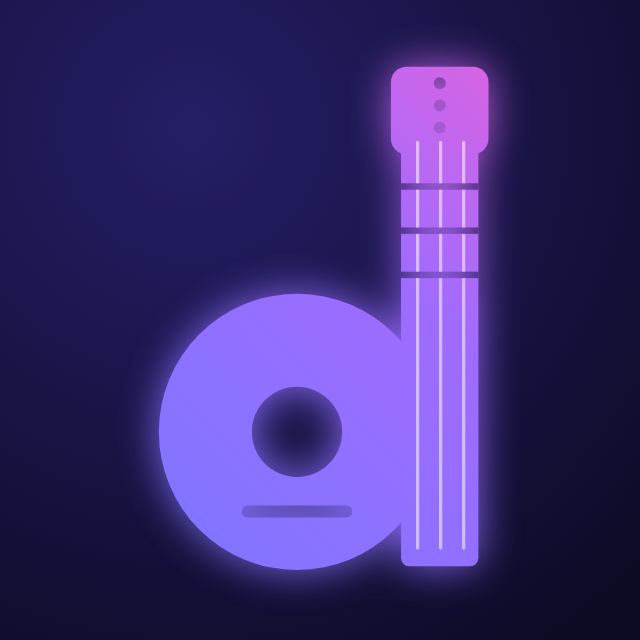
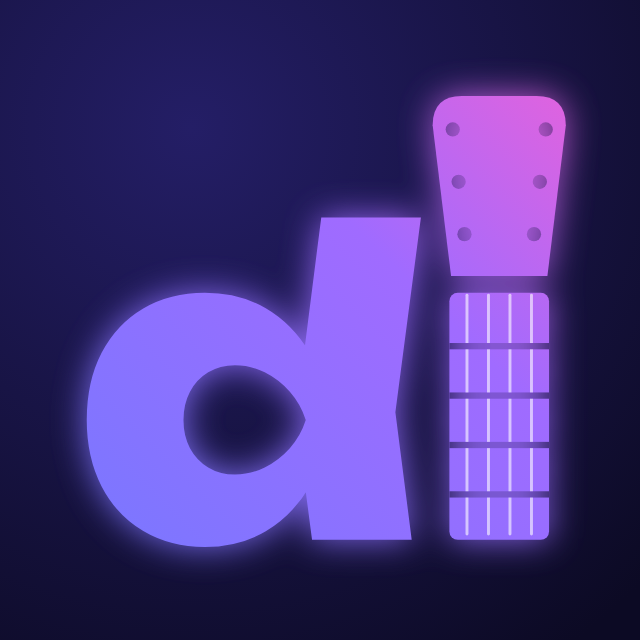
Логотип: гриф гитары на букве i (голова грифа вместо точки)
Claude-Session: https://claude.ai/code/session_01UK4vD2FhiZCAT2hytWhD3y

diff --git a/brand/make-logo.py b/brand/make-logo.py
@@ -1,0 +1,67 @@
+from fontTools.ttLib import TTFont
+from fontTools.pens.svgPathPen import SVGPathPen
+from fontTools.pens.transformPen import TransformPen
+from fontTools.pens.boundsPen import BoundsPen
+SP='/tmp/claude-0/-home-claude-fretboard/2b200dcc-3ea3-539e-8dcb-32b2ca31cb14/scratchpad/'
+f=TTFont(SP+'fonts/U800.ttf');gs=f.getGlyphSet();cmap=f.getBestCmap();hm=f['hmtx']
+B=1000  # базовая линия (y вниз)
+def glyph(ch,x):
+  g=cmap[ord(ch)];pen=SVGPathPen(gs);tp=TransformPen(pen,(1,0,0,-1,x,B));gs[g].draw(tp);return pen.getCommands(),hm[g][0]
+TR=-18
+x=0;paths=''
+d,adv=glyph('d',x);paths+=f'<path d="{d}"/>';x+=adv+TR
+# гитарная i: гриф = ножка, голова грифа = точка
+ix=x+66;iw=250                    # как у шрифтовой i
+nx0,nx1=ix+6,ix+iw-6              # гриф чуть уже
+XH=590
+neckTop=B-XH
+hx,hw=ix-34,iw+68                 # голова расширяется кверху
+hy1=neckTop-40                    # зазор = верхний порожек
+hy0=B-1060                        # голова выше букв
+def shapes():
+  return (f'<rect x="{nx0}" y="{neckTop}" width="{nx1-nx0}" height="{XH}" rx="20"/>'
+          f'<path d="M{nx0+4},{hy1} L{hx},{hy0+70} Q{hx},{hy0} {hx+70},{hy0} L{hx+hw-70},{hy0} Q{hx+hw},{hy0} {hx+hw},{hy0+70} L{nx1-4},{hy1} Z"/>')
+def cuts():
+  s=''
+  for y in range(neckTop+120,B-60,118):
+    s+=f'<rect x="{nx0}" y="{y}" width="{nx1-nx0}" height="15"/>'
+  for k in range(3):   # колки по краям головы: 3 слева, 3 справа
+    yy=hy0+80+k*125; inset=48+k*14
+    s+=f'<circle cx="{hx+inset}" cy="{yy}" r="17"/><circle cx="{hx+hw-inset}" cy="{yy}" r="17"/>'
+  return s
+def strings():
+  s='';n=4
+  for k in range(n):
+    xx=nx0+42+k*((nx1-nx0-84)/(n-1))
+    s+=f'<line x1="{xx}" y1="{neckTop+6}" x2="{xx}" y2="{B-14}" stroke="#fff" stroke-opacity=".6" stroke-width="7" stroke-linecap="round"/>'
+  # струны на голове к центру
+  return s
+x+=hm[cmap[ord('i')]][0]+TR+30
+for ch in 'trihh':
+  d,adv=glyph(ch,x);paths+=f'<path d="{d}"/>';x+=adv+TR
+W=x+20;TOP=hy0-20;H=B+40-TOP
+def svg(bg=None,pad=110,glow=True,mono=None):
+  fill=mono or 'url(#g)'
+  defs=f'''<defs><linearGradient id="g" x1="0" y1="0" x2="1" y2="0"><stop offset="0" stop-color="#6E7BFF"/><stop offset=".55" stop-color="#A06BFF"/><stop offset="1" stop-color="#FF5FCF"/></linearGradient>
+<mask id="m" maskUnits="userSpaceOnUse" x="-600" y="-600" width="{W+1200}" height="2600"><g fill="#fff">{paths}{shapes()}</g><g fill="#000">{cuts()}</g></mask>
+<filter id="glow" x="-20%" y="-40%" width="140%" height="180%"><feGaussianBlur stdDeviation="36"/></filter></defs>'''
+  bgr=f'<rect x="{-pad}" y="{TOP-pad}" width="{W+2*pad}" height="{H+2*pad}" fill="{bg}"/>' if bg else ''
+  body=f'<rect x="-300" y="-300" width="{W+600}" height="2000" fill="{fill}" mask="url(#m)"/>'
+  g=f'<g filter="url(#glow)" opacity=".85">{body}</g>' if glow else ''
+  return f'<svg xmlns="http://www.w3.org/2000/svg" viewBox="{-pad} {TOP-pad} {W+2*pad} {H+2*pad}">{defs}{bgr}{g}{body}<g mask="url(#m)">{strings()}</g></svg>'
+def icon(bg='#0C0A24'):
+  # иконка: монограмма «di» с гитарной i
+  d,_=glyph('d',0)
+  x0,x1=-10,hx+hw+10; y0,y1=hy0-10,B+20; w,h=x1-x0,y1-y0; side=max(w,h)*1.28; ox=x0-(side-w)/2; oy=y0-(side-h)/2
+  defs=f'''<defs><linearGradient id="g" x1="0" y1="1" x2="1" y2="0"><stop offset="0" stop-color="#6E7BFF"/><stop offset=".6" stop-color="#A06BFF"/><stop offset="1" stop-color="#FF5FCF"/></linearGradient>
+<radialGradient id="bgg" cx=".3" cy=".2" r="1"><stop offset="0" stop-color="#241E66"/><stop offset="1" stop-color="{bg}"/></radialGradient>
+<mask id="m" maskUnits="userSpaceOnUse" x="{ox}" y="{oy}" width="{side}" height="{side}"><g fill="#fff"><path d="{d}"/>{shapes()}</g><g fill="#000">{cuts()}</g></mask>
+<filter id="glow" x="-30%" y="-30%" width="160%" height="160%"><feGaussianBlur stdDeviation="42"/></filter></defs>'''
+  body=f'<rect x="{ox}" y="{oy}" width="{side}" height="{side}" fill="url(#g)" mask="url(#m)"/>'
+  return f'<svg xmlns="http://www.w3.org/2000/svg" viewBox="{ox} {oy} {side} {side}">{defs}<rect x="{ox}" y="{oy}" width="{side}" height="{side}" fill="url(#bgg)"/><g filter="url(#glow)" opacity=".9">{body}</g>{body}<g mask="url(#m)">{strings()}</g></svg>'
+O=SP+'logo/'
+open(O+'ditrihh-logo.svg','w').write(svg())
+open(O+'ditrihh-logo-dark.svg','w').write(svg(bg='#0C0A24'))
+open(O+'ditrihh-logo-white.svg','w').write(svg(glow=False,mono='#ffffff'))
+open(O+'ditrihh-logo-flat.svg','w').write(svg(glow=False,pad=10))
+open(O+'ditrihh-icon.svg','w').write(icon())
